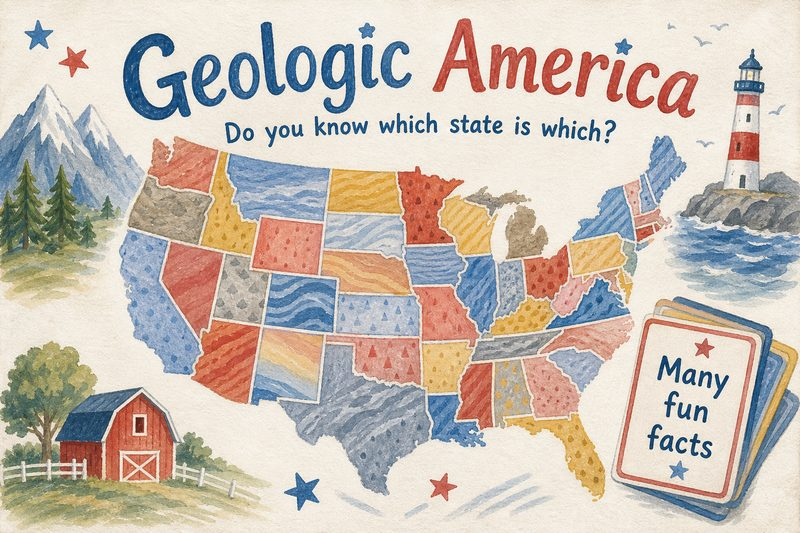
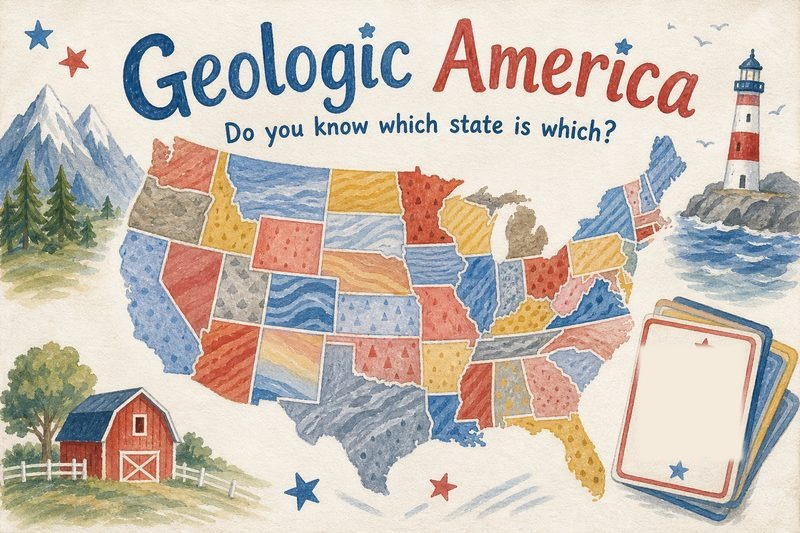
Remove 'Many fun facts' text from the Geologic America listing card
- The card graphic's little flashcard illustration is now blank.
- Listing blurb now reads 'Lots of fun facts' instead of 'Many fun facts'.

Claude-Session: https://claude.ai/code/session_01S76QWKhLRjoXeALWho7RNU

Changed region(s): [[0.7812, 0.6304, 0.9375, 0.8705]]

diff --git a/index.html b/index.html
@@ -123,7 +123,7 @@
               <div class="game-meta">
                 <p class="game-track">Cookie Jar</p>
                 <h3>Geologic America</h3>
-                <p>Do you know which state is which? Many fun facts.</p>
+                <p>Do you know which state is which? Lots of fun facts.</p>
                 <p><a class="btn btn-small" href="https://chearst444.github.io/geologic/american-edition/">Play live</a></p>
               </div>
             </article>
